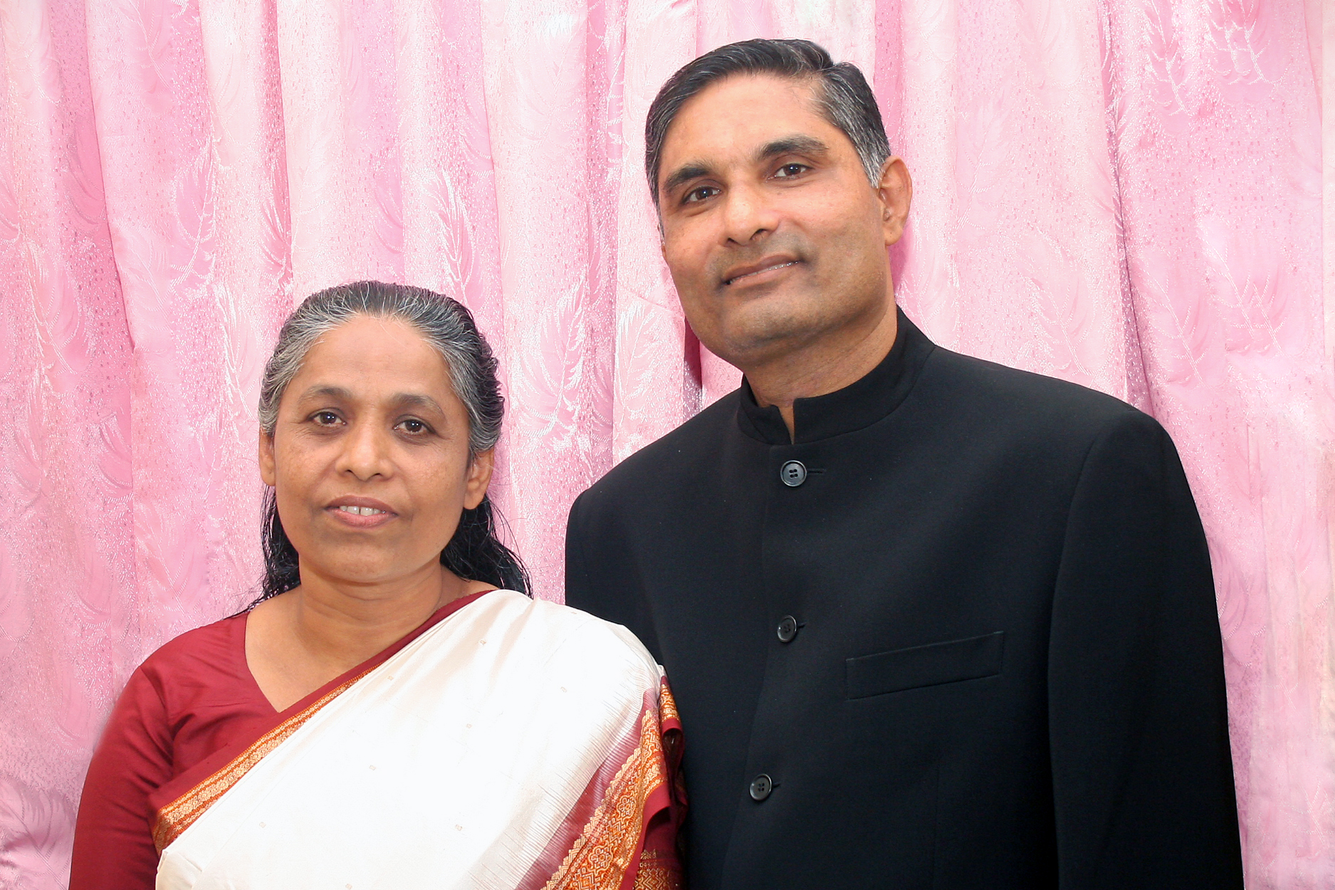
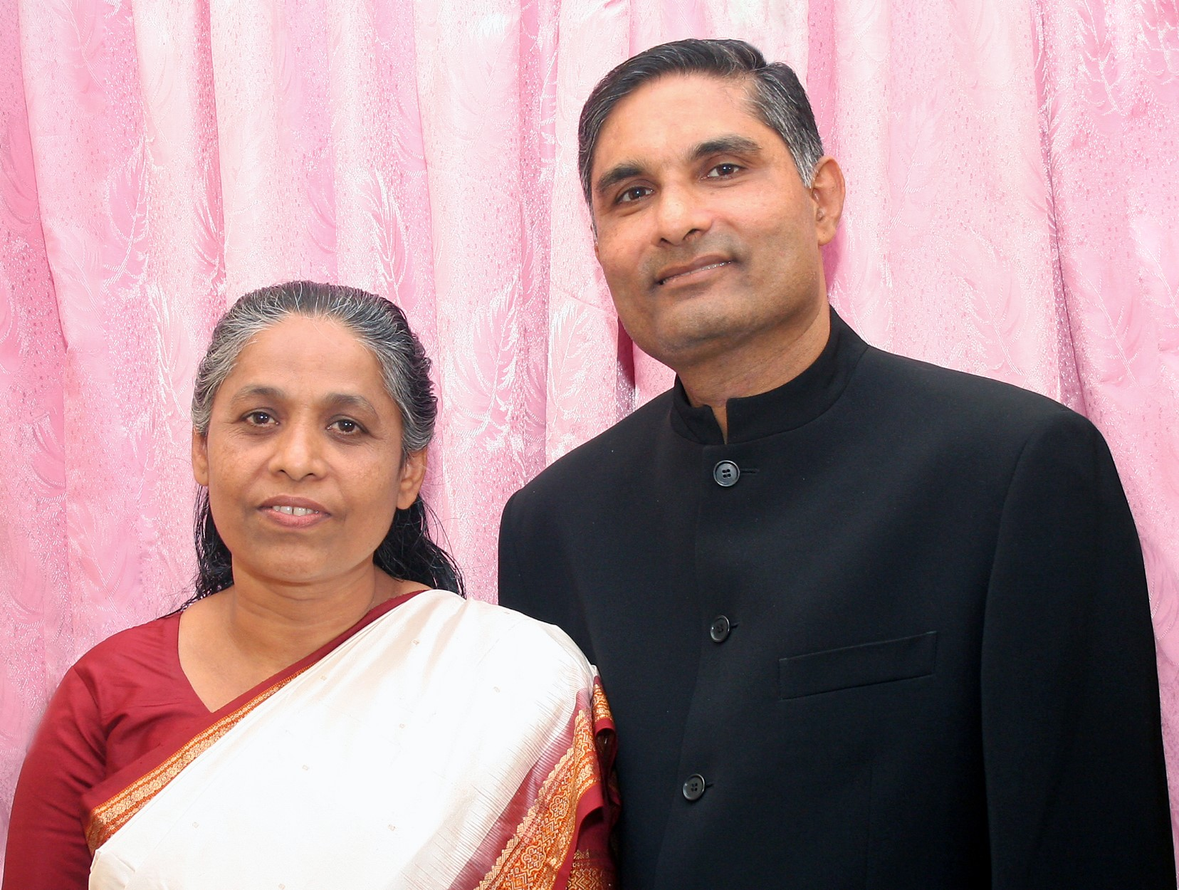
Leadership alignment issue fixed

diff --git a/src/app/Modules/Main-Church/leadership/leadership.component.scss b/src/app/Modules/Main-Church/leadership/leadership.component.scss
@@ -104,11 +104,11 @@ $page_width : 1300px;
             align-content: flex-start;
             width: 100%;
             max-width: 400px;
-            padding: 0px 20px;
+            // padding: 0px 20px;
+            min-height: 297px;
             .profileImage{
                 max-width: 400px;
                 margin: auto;
-                min-height: 259px;
                 border-style: solid;
                 border-width: 16px;
                 background: URL(/assets/images/modules/main-church/leadership/founder.jpg);
@@ -118,8 +118,12 @@ $page_width : 1300px;
                 background-repeat: no-repeat;
                 background-color: #007BFF;
                 background-blend-mode: darken;
+                max-height: 297px;
+                height: 100%;
                 img{
-                    width: 100%;
+                    // width: 100%;
+                    height: 100%;
+                    width: auto;
                     // border-style: solid;
                     // border-width: 16px;
                 }

diff --git a/src/index.html b/src/index.html
@@ -5,7 +5,7 @@
   <title>Church Of God Gospel Centre</title>
   <base href="/">
   <meta name="viewport" content="width=device-width, initial-scale=1">
-  <link rel="icon" type="image/x-icon" href="favicon.ico">
+  <link rel="icon" type="image/x-icon" href="/assets/favicon.jpg">
   <link rel="preconnect" href="https://fonts.googleapis.com">
   <link rel="preconnect" href="https://fonts.gstatic.com" crossorigin>
   <link href="https://fonts.googleapis.com/css2?family=IBM+Plex+Mono:wght@300;400;500;600;700&family=League+Gothic&family=REM:ital,wght@0,100;0,200;0,300;0,400;0,500;0,600;0,700;0,800;1,100;1,200;1,300;1,400;1,500;1,600;1,700&display=swap" rel="stylesheet">

diff --git a/src/app/Modules/Main-Church/home/home.component.scss b/src/app/Modules/Main-Church/home/home.component.scss
@@ -209,6 +209,7 @@ $page_width : 1300px;
             max-width: 600px;
             height: 37px;
             margin-top: 10px;
+            flex-wrap: wrap;
             h3{
                 font-family: 'REM', sans-serif;
                 font-size: 32px;
